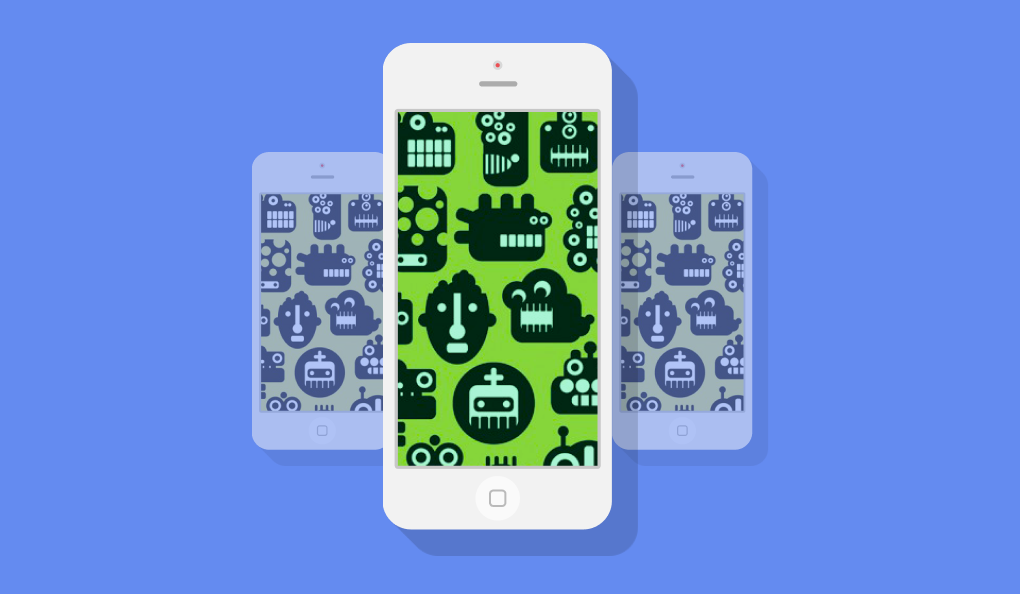
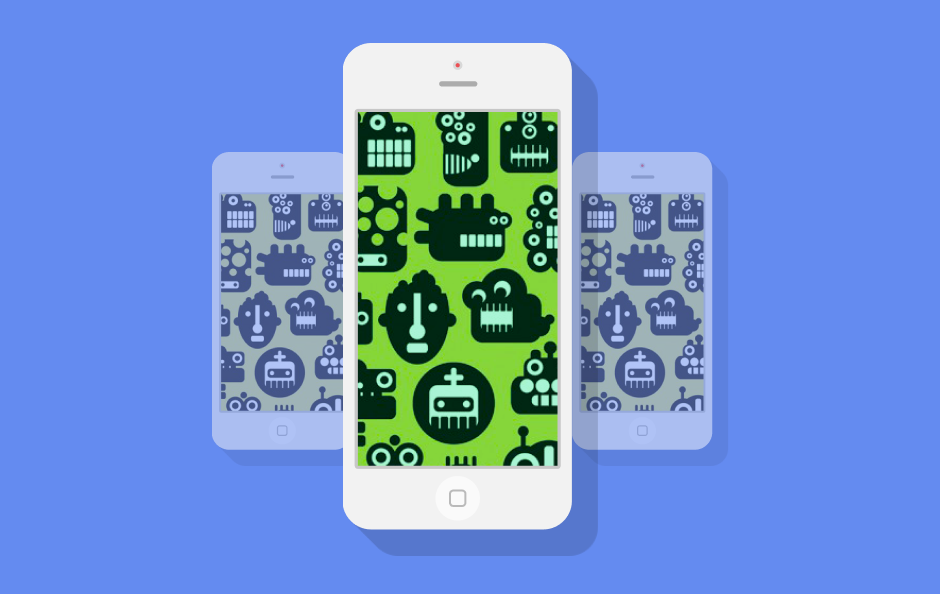
feat: change slider style

Changed region(s): [[0.216, 0.0606, 0.7713, 0.9394], [0.4011, 0.9091, 0.4319, 0.9394]]

diff --git a/index.html b/index.html
@@ -10,7 +10,7 @@
     <title>Singolo</title>
 </head>
 <body>
-<header >
+<header>
     <div class="inner">
         <div class="logo">
             <h1><span>Singolo</span></h1>
@@ -18,7 +18,7 @@
         </div>
         <div class="nav">
             <ul class="link">
-                <li><a href="#home" >home</a></li>
+                <li><a href="#home">home</a></li>
                 <li><a href="#services">services</a></li>
                 <li><a href="#portfolio">portfolio</a></li>
                 <li><a href="#about">about</a></li>
@@ -39,21 +39,21 @@
     <div class="slider" id="home">
         <div class="inner">
             <div class="slide-show-container">
-
-                <div class="mySlides fade">
-                    <img class="shadow-iphone-vertical" src="./assets/images/shadow-iphone-vertical.png" alt="shadow-iphone">
-                    <img class="iphone-vertical" src="./assets/images/iphone-vertical.png" alt="iphone capture">
-                    <img class="shadow-iphone-horizontal" src="./assets/images/shadow-iphone-horizontal.png" alt="shadow-iphone">
-                    <img class="iphone-horizontal" src="./assets/images/iphone-vertical.png" alt="iphone capture">
-                    <div onclick="turnOffHorizontal('iphone-horizontal-background')" class="iphone-horizontal-background"></div>
-                    <div onclick="turnOffVertical('iphone-vertical-background')" class="iphone-vertical-background"></div>
+                <div class="item-container">
+                    <div class="item active">
+                        <img class="shadow-iphone-vertical" src="./assets/images/shadow-iphone-vertical.png" alt="shadow-iphone">
+                        <img class="iphone-vertical" src="./assets/images/iphone-vertical.png" alt="iphone capture">
+                        <img class="shadow-iphone-horizontal" src="./assets/images/shadow-iphone-horizontal.png" alt="shadow-iphone">
+                        <img class="iphone-horizontal" src="./assets/images/iphone-vertical.png" alt="iphone capture">
+                        <div onclick="turnOffHorizontal('iphone-horizontal-background')" class="iphone-horizontal-background"></div>
+                        <div onclick="turnOffVertical('iphone-vertical-background')" class="iphone-vertical-background"></div>
+                    </div>
+                    <div class="item">
+                        <img class="slide-2" src="./assets/images/Slider.png" alt="">
+                    </div>
                 </div>
-                <div class="mySlides fade slide-2">
-                    <img class="slide-2" src="./assets/images/Slider.png" alt="">
-                </div>
-
-                <a onclick="plusSlides(-1)"><img class="left-chev" src="assets/images/chev-left.png" alt="chev"></a>
-                <a onclick="plusSlides(1)"><img class="right-chev" src="assets/images/chev-right.png" alt="chev"></a>
+                <a class="control left"><img class="left-chev" src="assets/images/chev-left.png" alt="chev"></a>
+                <a class="control right"><img class="right-chev" src="assets/images/chev-right.png" alt="chev"></a>
             </div>
         </div>
     </div>
@@ -313,12 +313,12 @@
                     condimentum nibh.</p>
             </div>
             <div class="contact-layout">
-                <div class="forms" >
+                <div class="forms">
                     <form id="form" class="form" method="post">
                         <input type="text" name="name" required id="name" placeholder="Name (Required)"><br>
                         <input type="email" name="email" id="email" placeholder="Email (Required)"><br>
-                        <input type="text"  name="text"  id="subject" placeholder="Subject"><br>
-                        <textarea  name="description" id="describe" cols="30" placeholder="Describe your project in detail..."
+                        <input type="text" name="text" id="subject" placeholder="Subject"><br>
+                        <textarea name="description" id="describe" cols="30" placeholder="Describe your project in detail..."
                                   rows="10"></textarea>
                         <input type="submit" id="submit" value="Submit">
                     </form>
@@ -399,7 +399,8 @@
                 </div>
             </div>
         </div>
-    </div><script src="script.js"></script>
+    </div>
+    <script src="script.js"></script>
 </footer>
 </body>
 </html>

diff --git a/style.css b/style.css
@@ -46,7 +46,7 @@ header {
     background-color: #f06c64;
     height: 594px;
     border-bottom: 6px solid #ea676b;
-    transition: all ease 1s;
+    transition: all ease-in-out 0.8s;
 }
 
 .logo {
@@ -145,30 +145,6 @@ header ul li:not(:first-child)::before {
 .iphone-vertical-background:hover {
     cursor: pointer;
 }
-
-/*.iphone2-horizontal-background {*/
-/*    display: block;*/
-/*    background-image: url("./assets/images/iphone2-horizontal-background.png");*/
-/*    background-position: bottom -187px right -40px;*/
-/*    width: 334px;*/
-/*    height: 188px;*/
-/*    position: absolute;*/
-/*    top: 188px;*/
-/*    right: 162px;*/
-/*    background-repeat: no-repeat;*/
-/*}*/
-
-/*.iphone2-vertical-background {*/
-/*    display: block;*/
-/*    background-image: url("./assets/images/iphone2-vertical-background.png");*/
-/*    background-position: bottom -27px right -75px;*/
-/*    width: 188px;*/
-/*    height: 333px;*/
-/*    position: absolute;*/
-/*    top: 118px;*/
-/*    left: 86px;*/
-/*    background-repeat: no-repeat;*/
-/*}*/
 
 .iphone-horizontal {
     position: absolute;
@@ -282,6 +258,11 @@ h2 span {
     margin: 0 auto;
     max-width: 940px;
     position: relative;
+}
+
+.slider .inner {
+    height: 594px;
+    overflow: hidden;
 }
 
 .flex-portfolio {
@@ -433,7 +414,9 @@ h2 span {
     transition: 0.5s;
     cursor: pointer;
 }
-
+.portfolio li:hover {
+    cursor: pointer;
+}
 .portfolio li:nth-child(n+13) {
     display: none;
 }
@@ -658,54 +641,6 @@ textarea {
     font-size: medium;
 }
 
-.dot {
-    margin-bottom: 0;
-    cursor: pointer;
-    height: 15px;
-    width: 15px;
-    background-color: #f2f2f2;
-    border-radius: 50%;
-    display: inline-block;
-    transition: background-color 0.6s ease;
-
-}
-
-.dot-slider {
-    display: block;
-    padding-top: 570px;
-    text-align: center;
-    vertical-align: bottom;
-}
-
-.active, .dot:hover {
-    background-color: #2d303a;
-}
-
-.fade {
-    -webkit-animation-name: fade;
-    -webkit-animation-duration: 4s;
-    animation-name: fade;
-    animation-duration: 4s;
-}
-
-@-webkit-keyframes fade {
-    from {
-        opacity: 0.1
-    }
-    to {
-        opacity: 1
-    }
-}
-
-@keyframes fade {
-    from {
-        opacity: 0
-    }
-    to {
-        opacity: 1
-    }
-}
-
 .link_active {
     color: #F06C64;
 }
@@ -730,7 +665,6 @@ textarea {
 
 .slide-2 {
     position: absolute;
-    right: -18px;
 }
 
 .tag_bordered {
@@ -775,6 +709,7 @@ textarea {
 }
 
 
+
 .submit_modal {
     margin-top: 10px;
     height: 30px;
@@ -783,4 +718,70 @@ textarea {
     border: none;
     border-radius: 5px;
     color: #F48C8F;
+}
+
+.item-container {
+    position: relative;
+    width: 940px;
+
+}
+
+.item {
+    position: relative;
+    margin: 0 auto;
+    display: none;
+    animation: 0.7s ease-in-out;
+
+}
+
+.active,
+.next {
+    display: block;
+}
+
+.next {
+    position: absolute;
+    top: 0;
+    width: 100%;
+}
+
+.to-left {
+    animation-name: left;
+}
+
+.to-right {
+    animation-name: right;
+    animation-direction: reverse;
+}
+
+.from-left {
+    animation-name: left;
+    animation-direction: reverse;
+}
+
+.from-right {
+    animation-name: right;
+}
+
+@keyframes left {
+    from {
+        left: 0;
+    }
+    to {
+        left: -100%;
+    }
+}
+
+@keyframes right {
+    from {
+        left: 100%;
+    }
+    to {
+        left: 0;
+    }
+}
+
+.blue {
+    background-color: #648bf0;
+    border-color: #648bf0;
 }

diff --git a/script.js b/script.js
@@ -1,40 +1,75 @@
-let displaySlideBlue = false;
-let slideIndex = 1;
 let displayOnVertical = false;
 let displayOnHorizontal = false;
 const overlay = document.getElementsByClassName('overlay');
 const form = document.getElementById('form');
+let items = document.querySelectorAll('.item');
+let currentItem = 0;
+let isEnabled = true;
+let isBlueBackground = true;
 
-showSlides(slideIndex);
-
-function showSlides(n) {
-
-    if (displaySlideBlue) {
-        document.querySelector('.slider').classList.add('sliderBlue');
-        displaySlideBlue = false;
-    } else {
-        document.querySelector('.slider').classList.remove('sliderBlue');
-        displaySlideBlue = true;
-    }
-
-    let slides = document.getElementsByClassName("mySlides");
-
-    if (n > slides.length) {
-        slideIndex = 1
-    }
-    if (n < 1) {
-        slideIndex = slides.length
-    }
-    for (let i = 0; i < slides.length; i++) {
-        slides[i].style.display = "none";
-    }
-
-    slides[slideIndex - 1].style.display = "block";
+function changeCurrentItem(n) {
+    currentItem = (n + items.length) % items.length;
 }
 
-function plusSlides(n) {
-    showSlides(slideIndex += n);
+function hideItem(direction) {
+    isEnabled = false;
+    items[currentItem].classList.add(direction);
+    items[currentItem].addEventListener('animationend', function () {
+        this.classList.remove('active', direction);
+        this.style.border
+    })
 }
+
+function showItem(direction) {
+    items[currentItem].classList.add('next', direction);
+    items[currentItem].addEventListener('animationend', function () {
+        this.classList.remove('next', direction);
+        this.classList.add('active');
+        isEnabled = true;
+    })
+}
+
+function previousItem(n) {
+    hideItem('to-right');
+    changeCurrentItem(n - 1);
+    showItem('from-left');
+}
+
+function nextItem(n) {
+    hideItem('to-left');
+    changeCurrentItem(n + 1);
+    showItem('from-right');
+}
+
+let slide = document.querySelector('.slider');
+
+document.querySelector('.control.left').addEventListener('click', function () {
+    if (isEnabled) {
+        if (isBlueBackground) {
+            slide.classList.add('blue');
+            isBlueBackground = false;
+        } else {
+            slide.classList.remove('blue');
+            isBlueBackground = true;
+        }
+
+        previousItem(currentItem);
+    }
+});
+
+document.querySelector('.control.right').addEventListener('click', function () {
+    if (isEnabled) {
+        if (isBlueBackground) {
+            slide.classList.add('blue');
+            isBlueBackground = false;
+        } else {
+            slide.classList.remove('blue');
+            isBlueBackground = true;
+        }
+
+        nextItem(currentItem);
+    }
+});
 
 document.querySelector('.portfolio-navigation').addEventListener('click', (e) => {
     let clickedTag = e.target;
